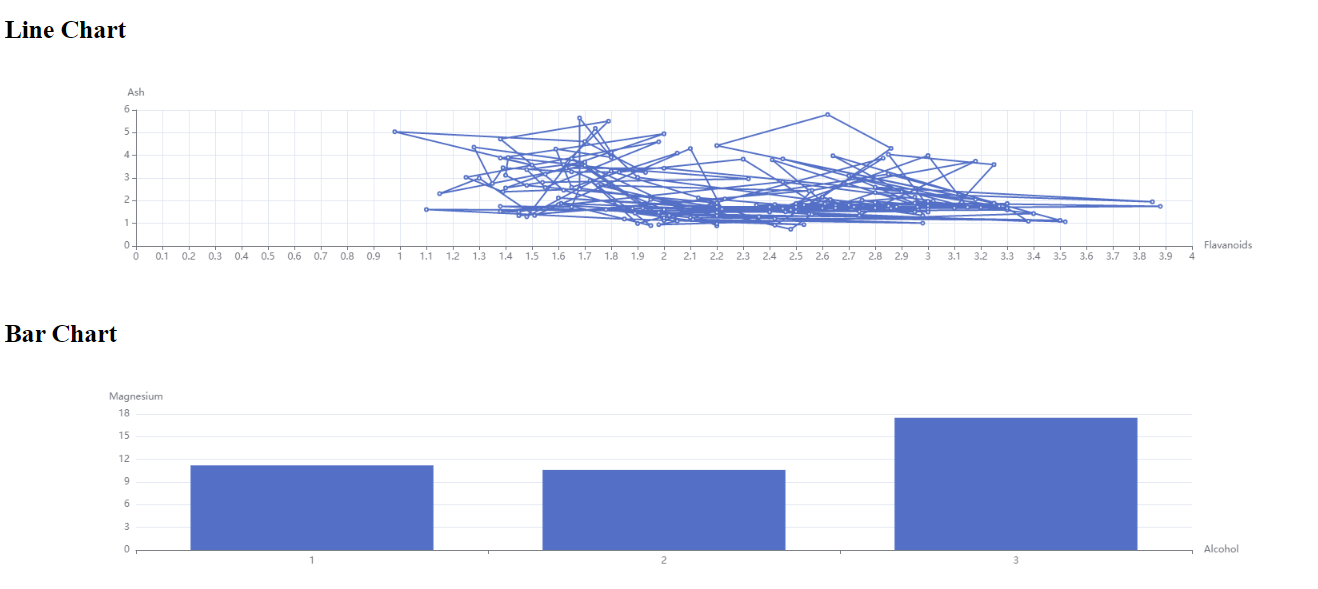
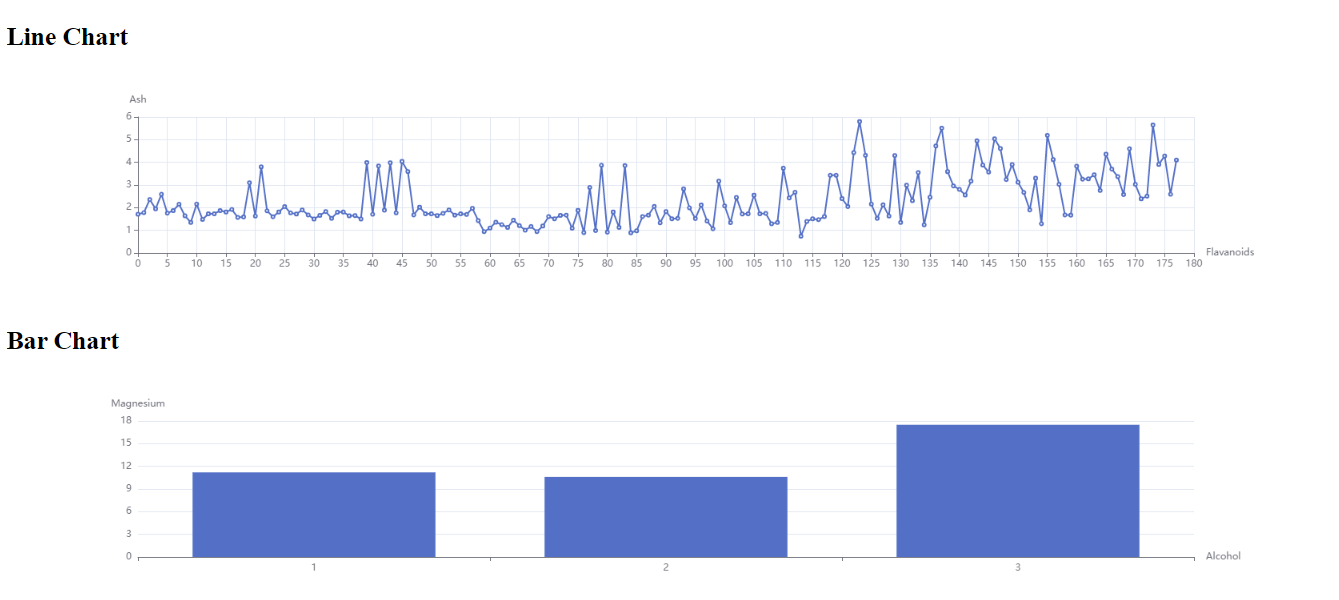
dfsv

diff --git a/src/App.js b/src/App.js
@@ -13,7 +13,7 @@ const BarGraphArray = Object.values(
 );
 
 const LineChartData = filterData.map((item,idx) => {
-  return [item.Flavanoids,item.Ash];
+  return [idx,item.Ash];
 });
 
 console.log("LineChart", LineChartData);
@@ -22,7 +22,7 @@ const lineChartOptions = {
   xAxis: {
     type: "value",
     name: "Flavanoids",
-    interval: 0.1,
+    interval: 5,
   },
   yAxis: {
     type: "value",
